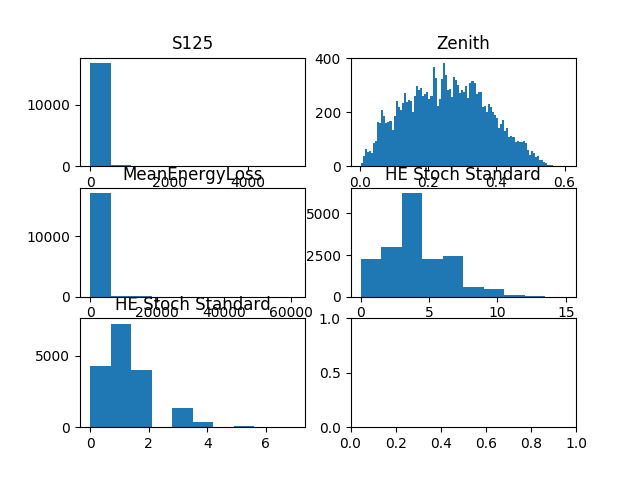
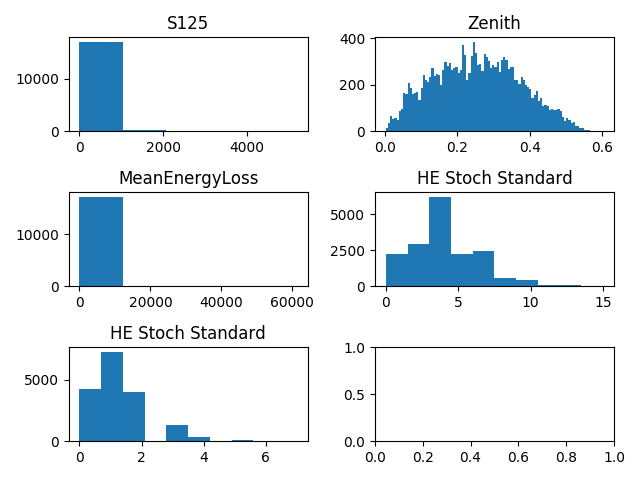
updates

diff --git a/Histogram.py b/Histogram.py
@@ -37,17 +37,17 @@ HE_stoch_strong = f['tinyTree']['n_he_stoch2'].array()
 
 fig, axes = plt.subplots(3, 2)
 
-axes[0,0].hist(S125,bins=10)
+axes[0,0].hist(S125,bins=5)
 axes[0,0].set_title('S125')
 axes[0,1].hist(Zenith,bins=100)
 axes[0,1].set_title('Zenith')
-axes[1,0].hist(MeanEnergyLoss,bins=10)
+axes[1,0].hist(MeanEnergyLoss,bins=5)
 axes[1,0].set_title('MeanEnergyLoss')
 axes[1,1].hist(HE_stoch_standard,bins=10)
 axes[1,1].set_title('HE Stoch Standard')
 axes[2,0].hist(HE_stoch_strong,bins=10)
 axes[2,0].set_title('HE Stoch Standard')
-
+fig.tight_layout()
 fig.savefig('Output'+args.output_base+'.png')
 
 
